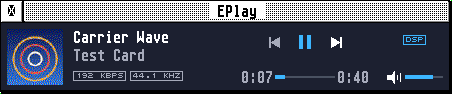
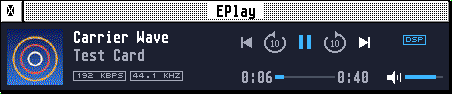
10 s back and forward buttons either side of Play/Pause
Erez, 17 Nov 2026: "a small circle with an arrow to the back and to the
front with the number 10 inside it ... placed surrounding the play/pause
button". bar.c: BH_BACK10 and BH_FWD10, a ring open at the top with its
arrowhead and "10" inside (mask_skip, made once at the layout), dim where
the file can't go there (none, a station, no length); Previous and Next a
button further out. main.c: skip_by(), the clicks and Left and Right
alike; tips "10 seconds back (Left)", "10 seconds forward (Right)".
The guide and the docs' pictures again. speed.py: the buttons clicked in
each session (two rows), where it went checked; NEXT's place moved.

AESGAP figures for the release in its commit (paired against 1.46).

Claude-Session: https://claude.ai/code/session_01SZeNoDozTmbWt4s2sFN9eL

diff --git a/ui/bar.c b/ui/bar.c
@@ -105,7 +105,7 @@ void bar_colours_back(void)
 #define LIST_ROWS 6
 
 static GRECT w_all, w_bar, w_art, w_txt, w_ctl, w_pos, w_out, w_list;
-static GRECT b_btn[6];		/* by BH_SHUFFLE .. BH_REPEAT */
+static GRECT b_btn[BAR_BTNS];	/* by BH_SHUFFLE .. BH_FWD10 */
 static GRECT w_track, w_vol;
 static short bar_h, row_h, rad;
 
@@ -131,7 +131,7 @@ static void rect(GRECT *r, short x, short y, short w, short h)
 
 void bar_layout(const GRECT *work)
 {
-	short x, y, art, mid, bw, gap;
+	short x, y, art, mid, bw, gap, sw;
 	w_all = *work;
 	bar_h = 4 * ch + 4;
 	row_h = ch + 4;
@@ -144,8 +144,12 @@ void bar_layout(const GRECT *work)
 	/* the right: the output over the speaker and the volume */
 	rect(&w_out, work->x + work->w - 6 - 7 * cw, work->y, 7 * cw, bar_h);
 	rect(&w_vol, w_out.x + 18, work->y + bar_h - 6 - ch / 2 - 5, w_out.w - 18, 10);
-	/* the middle: Previous, Play/Pause, Next, the position under them
-	   (Shuffle and Repeat: the Play menu's) */
+	/* the middle: Previous, 10 s back, Play/Pause, 10 s forward, Next,
+	   the position under them (Shuffle and Repeat: the Play menu's). The
+	   10 s buttons either side of Play/Pause, Previous and Next a button
+	   further out (Erez, 17 Nov 2026: "a small circle with an arrow to the
+	   back and to the front with the number 10 inside it ... surrounding
+	   the play/pause button") */
 	x = w_txt.x + w_txt.w + 6;
 	rect(&w_ctl, x, work->y, w_out.x - 8 - x, bar_h);
 	rad = (ch * 13 + 8) / 16;		/* the round button's radius: 13 on VGA */
@@ -154,8 +158,11 @@ void bar_layout(const GRECT *work)
 	mid = w_ctl.x + w_ctl.w / 2;
 	y = work->y + 6;
 	rect(&b_btn[BH_PLAY - 1], mid - rad, y, 2 * rad, 2 * rad);
-	rect(&b_btn[BH_PREV - 1], mid - rad - gap - bw, y + rad - bw / 2, bw, bw);
-	rect(&b_btn[BH_NEXT - 1], mid + rad + gap, y + rad - bw / 2, bw, bw);
+	sw = ch >= 16 ? bw : bw + 4;	/* (the 10 s buttons: room for the "10" in a low resolution's flat pixels) */
+	rect(&b_btn[BH_BACK10 - 1], mid - rad - gap - sw, y + rad - bw / 2, sw, bw);
+	rect(&b_btn[BH_FWD10 - 1], mid + rad + gap, y + rad - bw / 2, sw, bw);
+	rect(&b_btn[BH_PREV - 1], mid - rad - 2 * gap - sw - bw, y + rad - bw / 2, bw, bw);
+	rect(&b_btn[BH_NEXT - 1], mid + rad + 2 * gap + sw, y + rad - bw / 2, bw, bw);
 	rect(&b_btn[BH_SHUFFLE - 1], 0, 0, 0, 0);
 	rect(&b_btn[BH_REPEAT - 1], 0, 0, 0, 0);
 	/* the times, 5 characters and a gap each side of the track */
@@ -213,7 +220,7 @@ int bar_hit(short x, short y)
 {
 	int i;
 	GRECT pos;
-	for (i = 0; i < 5; i++)
+	for (i = 0; i < BAR_BTNS; i++)
 		if (in(&b_btn[i], x, y))
 			return BH_SHUFFLE + i;
 	pos = w_track;
@@ -384,6 +391,63 @@ static void mask_tri(MASK *m, short w, short h, int dir)
 	}
 }
 
+/* the 10 s buttons' sign (Erez, 17 Nov 2026): a ring, open at the top,
+   its arrowhead there pointing back (dir -1) or forward (1), and "10"
+   inside it, w by h */
+static void mask_dot(MASK *m, short x, short y)
+{
+	if (x >= 0 && y >= 0 && x < m->w && y < m->h)
+		m->bits[y * m->wpl + (x >> 4)] |= 0x8000 >> (x & 15);
+}
+
+static void mask_skip(MASK *m, short w, short h, int dir)
+{
+	/* the figures: 1 and 0, 3 by 5, or 3 and 4 by 7 from 20 pixels high */
+	static const unsigned char f5[2][5] = { { 2, 6, 2, 2, 7 }, { 7, 5, 5, 5, 7 } };
+	static const unsigned char f7[2][7] = { { 2, 6, 2, 2, 2, 2, 7 }, { 6, 9, 9, 9, 9, 9, 6 } };
+	int big = h >= 20;
+	short th = big ? 2 : 1, ah = big ? 3 : 2, top = big ? ah - th / 2 : 1, rh, wi, hi;
+	short x, y, k, fx, fy, fw, fh = big ? 7 : 5, x0, y0;
+	long w2, rh2, wi2, hi2;
+	if (!mask_new(m, w, h))
+		return;
+	rh = h - top;			/* (the ring a little lower: the arrowhead's room above it) */
+	wi = w - 2 * th;
+	hi = rh - 2 * th;
+	w2 = (long)w * w;
+	rh2 = (long)rh * rh;
+	wi2 = (long)wi * wi;
+	hi2 = (long)hi * hi;
+	for (y = top; y < h; y++)
+		for (x = 0; x < w; x++) {
+			long dx = 2 * x - w + 1, dy = 2 * (y - top) - rh + 1;
+			if (dx * dx * rh2 + dy * dy * w2 > w2 * rh2 || dx * dx * hi2 + dy * dy * wi2 < wi2 * hi2)
+				continue;
+			/* the opening: from the top, some 50 degrees round away
+			   from the arrow's point */
+			if (dy < 0 && -dir * dx > 0 && -dir * dx * 5 < -dy * 6)
+				continue;
+			mask_dot(m, x, y);
+		}
+	/* the arrowhead at the top, its point back or forward */
+	x0 = (short)(w / 2 - (dir < 0 ? 1 : 0));
+	y0 = (short)(top + th / 2);
+	for (k = 0; k <= ah; k++)
+		for (y = (short)(y0 - (ah - k)); y <= y0 + (ah - k); y++)
+			mask_dot(m, (short)(x0 + dir * k), y);
+	/* "10" in the middle of the ring */
+	x0 = (short)((w - (big ? 8 : 7) + 1) / 2);
+	y0 = (short)(top + (rh - fh + 1) / 2);
+	for (k = 0; k < 2; k++) {
+		fw = big && k ? 4 : 3;
+		for (fy = 0; fy < fh; fy++)
+			for (fx = 0; fx < fw; fx++)
+				if ((big ? f7[k][fy] : f5[k][fy]) & (1 << (fw - 1 - fx)))
+					mask_dot(m, (short)(x0 + fx), (short)(y0 + fy));
+		x0 += fw + 1;
+	}
+}
+
 static void mask_draw(const MASK *m, short x, short y, short pen)
 {
 	GRECT r;
@@ -441,7 +505,7 @@ static short badge(int slot, short x, short y, short rh, const char *s, short pe
 }
 
 /* the shapes, made for the layout's sizes */
-static MASK k_art, k_hole, k_spot, k_ptri, k_prev, k_next, k_spk;
+static MASK k_art, k_hole, k_spot, k_ptri, k_prev, k_next, k_spk, k_back, k_fwd;
 
 static void make_masks(void)
 {
@@ -454,6 +518,8 @@ static void make_masks(void)
 	mask_tri(&k_prev, h * 3 / 4 + 1, h, -1);
 	mask_tri(&k_next, h * 3 / 4 + 1, h, 1);
 	mask_tri(&k_spk, 5, 13, -1);
+	mask_skip(&k_back, b_btn[BH_BACK10 - 1].w, b_btn[BH_BACK10 - 1].h, -1);
+	mask_skip(&k_fwd, b_btn[BH_FWD10 - 1].w, b_btn[BH_FWD10 - 1].h, 1);
 }
 
 static void fmt_time(char *out, int n, long ms)
@@ -647,7 +713,8 @@ static void draw_buttons(int parts)
 		/* Previous, Next: the list's, dim where there is none */
 		int i;
 		short pen;
-		for (i = 0; i < 5; i++) {
+		int can = play_is_open() && play_len_ms() > 0 && !play_is_net();
+		for (i = 0; i < BAR_BTNS; i++) {
 			GRECT *c = &b_btn[i];
 			short x = c->x + c->w / 2, y = c->y + c->h / 2, h = c->h / 2, ww = h * 3 / 4;
 			if (i == BH_PLAY - 1 || !c->w)
@@ -663,6 +730,13 @@ static void draw_buttons(int parts)
 				pen = bar_held == BH_NEXT ? p_acc : order_has_next(&list_order, list_cur) ? p_txt : p_dim;
 				mask_draw(&k_next, x - ww / 2, y - h / 2, pen);
 				box(x + ww / 2 + 1, y - h / 2, 2, h, pen, 0);
+				break;
+			case BH_BACK10:
+			case BH_FWD10:
+				/* 10 s back, forward: dim where the file can't go there
+				   (none, a station, no length) */
+				pen = bar_held == i + 1 ? p_acc : can ? p_txt : p_dim;
+				mask_draw(i + 1 == BH_BACK10 ? &k_back : &k_fwd, c->x, c->y, pen);
 				break;
 			case BH_SHUFFLE:
 				line(x - 6, y - 3, x - 3, y - 3, p_dim);

diff --git a/tests/hatari/speed.py b/tests/hatari/speed.py
@@ -41,7 +41,11 @@ ABOUT = (60, 27)
 PLAY = PAUSE = (389, 150)
 POS_MID = (389, 185)		# the position bar's middle
 VOL_Q = (498, 185)		# a quarter of the volume bar: 6 of 24
-NEXT = (421, 150)
+# the 10 s buttons either side of Play/Pause, Previous and Next a button
+# further out (Erez, 17 Nov 2026)
+BACK10 = (359, 150)
+FWD10 = (419, 150)
+NEXT = (447, 150)
 ROW = [(300, 229 + 20 * i) for i in range(6)]	# the list's rows
 SECS = 120	# (long enough not to end before the last action, when the emulator runs fast)
 
@@ -298,6 +302,12 @@ def session(work, spec, kind):
         r.act("Position bar: pressed at its middle", speed.KEY, lambda: r.press(*POS_MID))
         r.act("Position bar: let go (goes there)", speed.KEY, r.let_go)
         r.act("%s playing from there, 3 s" % what, speed.KEY, lambda: time.sleep(3))
+        # the 10 s buttons: forward, then back (the music goes there the
+        # next turn, as from the position bar)
+        r.act("10 s forward (clicked)", speed.KEY, lambda: r.click(*FWD10))
+        r.act("%s playing, 2 s" % what, speed.KEY, lambda: time.sleep(2))
+        r.act("10 s back (clicked)", speed.KEY, lambda: r.click(*BACK10))
+        r.act("%s playing, 2 s more" % what, speed.KEY, lambda: time.sleep(2))
         # the volume: pressed at a quarter, then + (a step up)
         r.act("Volume: pressed at a quarter", speed.KEY, lambda: r.press(*VOL_Q))
         r.act("Volume: let go", speed.KEY, r.let_go)
@@ -315,8 +325,19 @@ def session(work, spec, kind):
             print("ok    the volume: %d at a quarter of the bar, %d after +" % (vols[0], vols[1]))
         if not getattr(r, "held_ok", True):
             rc = 1
-        went = [l for l in r.console().split("\n") if l.startswith("EPLAY went to ")]
-        ms = int(went[-1].split()[3]) if went else -1
+        went = [int(l.split()[3]) for l in r.console().split("\n") if l.startswith("EPLAY went to ")]
+        ms = went[0] if went else -1
+        if kind != "vgm":
+            # (each 10 s from where the music then was: forward 10 s plus
+            # what played since the position bar's, back 10 s less what
+            # played since; the rig's actions take a few seconds each)
+            d1 = went[1] - went[0] if len(went) >= 3 else 0
+            d2 = went[2] - went[1] if len(went) >= 3 else 0
+            if len(went) < 3 or not 10000 < d1 <= 20000 or not -10000 < d2 < 0:
+                print("FAIL  the 10 s buttons: went to %s ms (wanted the middle, then 10 s on, then 10 s back)" % went)
+                rc = 1
+            else:
+                print("ok    the 10 s buttons: %+d ms forward, %+d ms back (each with the seconds played between)" % (d1, d2))
         if kind == "vgm":
             print("ok    the position bar's middle went to %d ms (a VGM's own length)" % ms)
         elif abs(ms - SECS * 500) > SECS * 50:

diff --git a/ui/main.c b/ui/main.c
@@ -1178,11 +1178,26 @@ static int list_keys(short kr)
    the key was one of them */
 #define SEEK_STEP 10000L
 static long seek_to = -1;		/* the position bar let go: where, for the next turn */
+/* 10 s back or forward: Left and Right, and the bar's 10 s buttons
+   (Erez, 17 Nov 2026) */
+static void skip_by(long ms)
+{
+	long len = play_len_ms(), at;
+	if (!play_is_open() || len <= 0 || play_is_net())
+		return;
+	at = (seek_to >= 0 ? seek_to : play_ms()) + ms;
+	if (at < 0)
+		at = 0;
+	if (at > len - 1)
+		at = len - 1;
+	seek_to = at;		/* (gone there the next turn, as the position bar's) */
+	redraw(0, BP_TIME);
+}
+
 static int music_keys(short kr, short ks)
 {
 	short scan = (kr >> 8) & 0xff;
 	int shift = key_shift(ks, kr);	/* (common's: a Shift held while EPlay was busy, from the key itself) */
-	long len, at;
 	switch (scan) {
 	case 0x62:			/* Help */
 		command(C_GUIDE);
@@ -1196,16 +1211,7 @@ static int music_keys(short kr, short ks)
 			command(scan == 0x4b ? C_PREV : C_NEXT);
 			return 1;
 		}
-		len = play_len_ms();
-		if (!play_is_open() || len <= 0)
-			return 1;
-		at = (seek_to >= 0 ? seek_to : play_ms()) + (scan == 0x4b ? -SEEK_STEP : SEEK_STEP);
-		if (at < 0)
-			at = 0;
-		if (at > len - 1)
-			at = len - 1;
-		seek_to = at;		/* (gone there the next turn, as the position bar's) */
-		redraw(0, BP_TIME);
+		skip_by(scan == 0x4b ? -SEEK_STEP : SEEK_STEP);
 		return 1;
 	}
 	return 0;
@@ -2139,6 +2145,12 @@ static int bar_tip(short x, short y, char *out, int size)
 	case BH_NEXT:
 		t = "Next file (Shift+Right)";
 		break;
+	case BH_BACK10:
+		t = "10 seconds back (Left)";
+		break;
+	case BH_FWD10:
+		t = "10 seconds forward (Right)";
+		break;
 	case BH_SHUFFLE:
 		t = "Shuffle";
 		break;
@@ -2265,6 +2277,9 @@ static void turn(int nested)
 			command(C_PREV);
 		else if (hit == BH_NEXT && order_has_next(&list_order, list_cur) && track(BH_NEXT, BP_NAV))
 			command(C_NEXT);
+		else if ((hit == BH_BACK10 || hit == BH_FWD10) && play_is_open() && play_len_ms() > 0 &&
+			 !play_is_net() && track(hit, BP_NAV))
+			skip_by(hit == BH_BACK10 ? -SEEK_STEP : SEEK_STEP);
 		else if (hit == BH_LIST)
 			list_press(ev.mx, ev.my, ev.kstate, 0);
 	}

diff --git a/ui/bar.h b/ui/bar.h
@@ -13,7 +13,10 @@
 #include "ui.h"
 
 /* what a press is on */
-enum { BH_NONE, BH_SHUFFLE, BH_PREV, BH_PLAY, BH_NEXT, BH_REPEAT, BH_POS, BH_VOL, BH_LIST };
+/* (BH_BACK10, BH_FWD10: 10 s back and forward, either side of Play/Pause;
+   Erez, 17 Nov 2026) */
+enum { BH_NONE, BH_SHUFFLE, BH_PREV, BH_PLAY, BH_NEXT, BH_REPEAT, BH_BACK10, BH_FWD10, BH_POS, BH_VOL, BH_LIST };
+#define BAR_BTNS 7		/* BH_SHUFFLE .. BH_FWD10 */
 
 /* what is drawn again: the parts, or-ed */
 #define BP_TIME  1		/* the times and the position bar */

diff --git a/docs/GUIDE.md b/docs/GUIDE.md
@@ -89,8 +89,9 @@ EPlay has one window. **The bar** across its top shows what plays: the album art
 DSP, then kept in `cache\`), the title and artist from its tags, its bit rate and rate, and where
 it plays: **FDI**, **DSP** or **DMA**.
 
-- **Play/Pause**, the symbol in the middle (in the accent colour), plays and pauses; the arrows
-  beside it go to the previous and next file.
+- **Play/Pause**, the symbol in the middle (in the accent colour), plays and pauses. The rings
+  with "10" either side of it go 10 seconds back and forward in the file (as Left and Right do),
+  and the arrows beyond them go to the previous and next file.
 - **The position bar:** click or drag on it to go to that place in the file.
 - **The volume** at the right: click or drag on it, or press + and -.
 - **Tips:** rest the pointer on a control for a moment and a tip says what it does and its key
